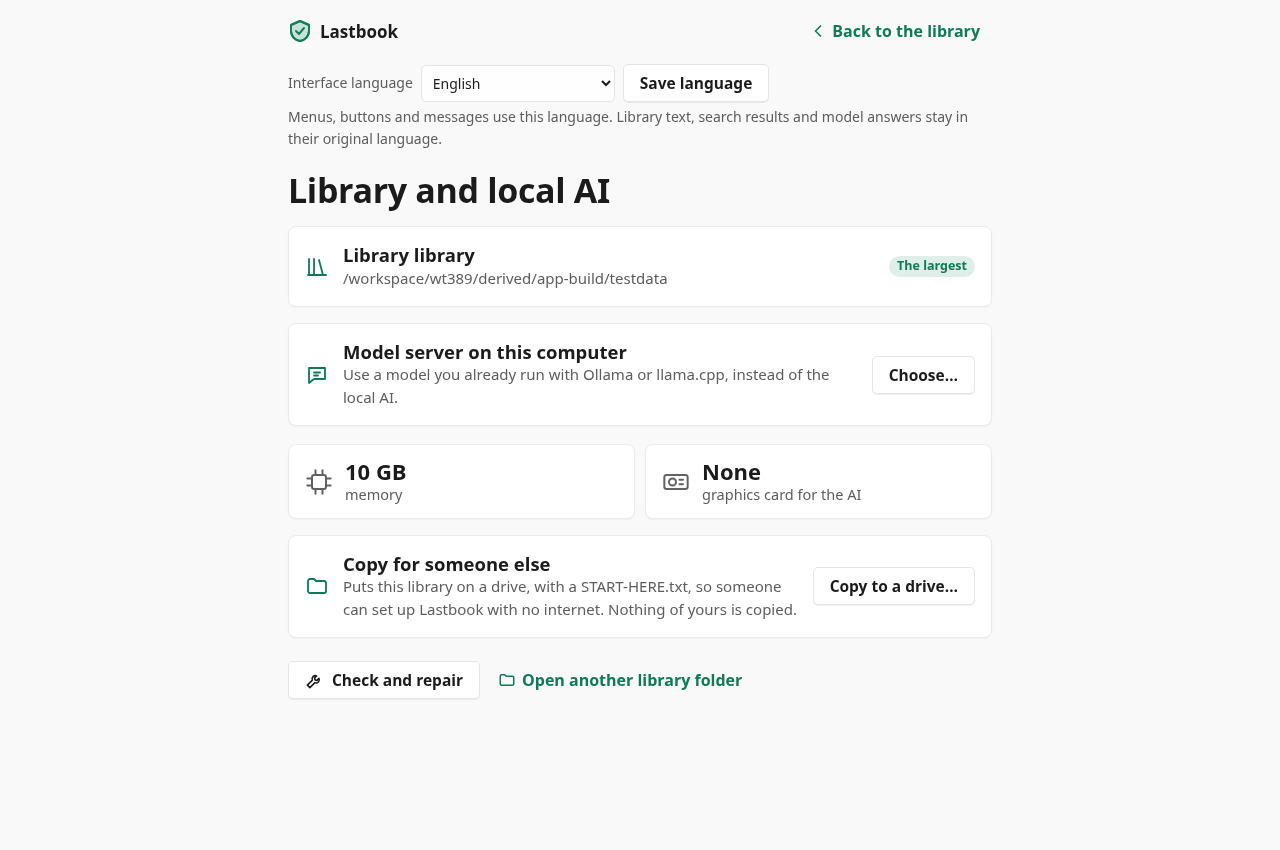
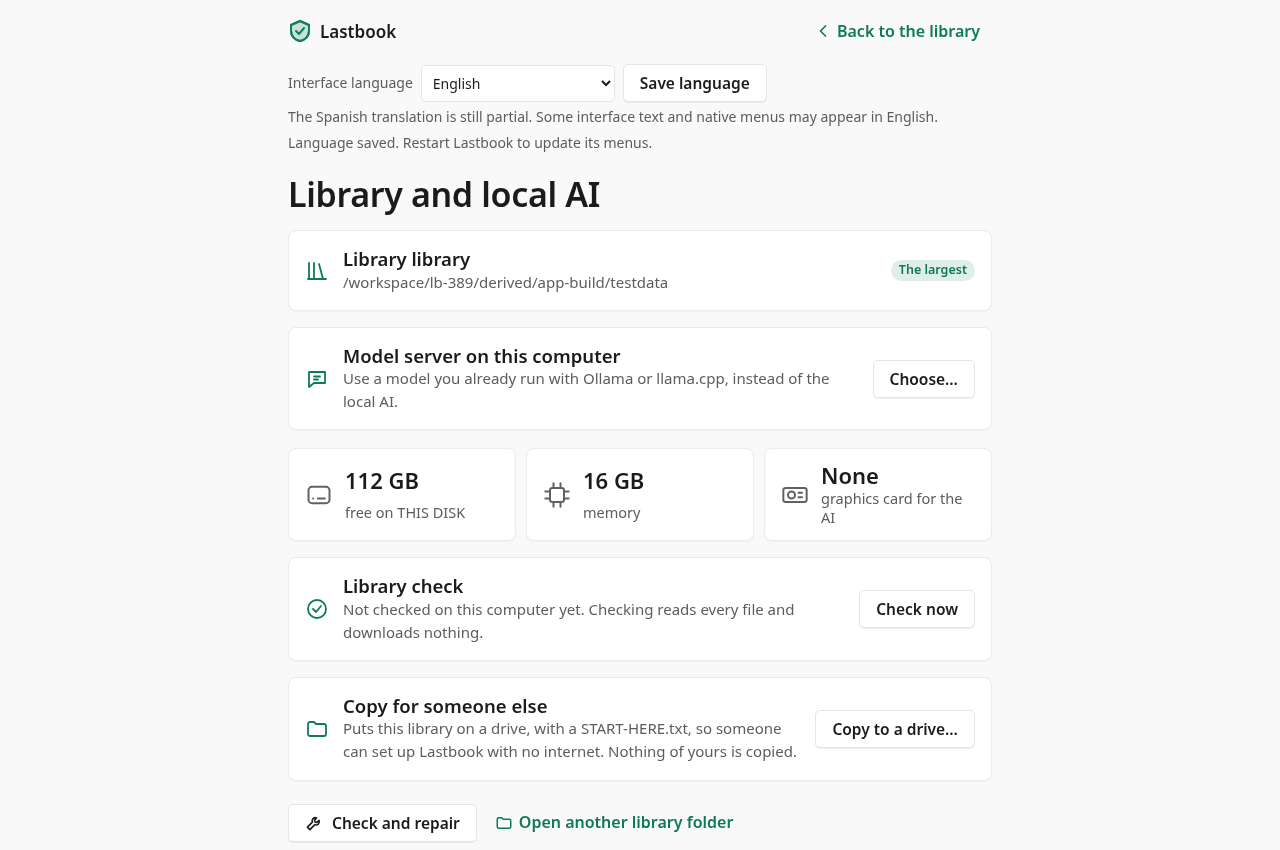
docs: regenerate localization review screenshots from the final code

diff --git a/docs/review-previews/i18n-2026-11/README.md b/docs/review-previews/i18n-2026-11/README.md
@@ -4,6 +4,6 @@ These review previews cover the Library and Settings screens requested in PR #38
 
 - `library-es-419.png`: Library in Español (Latinoamérica), including localized topic titles and descriptions.
 - `settings-es-419.png`: Settings in Español (Latinoamérica).
-- `settings-en.png`: Settings after switching back to English.
+- `settings-en.png`: Settings after switching back to English in the same page, without a reload.
 
-Captured at a 1280 × 850 CSS viewport with Chromium and the checked-in Playwright browser/bridge harness. The harness uses the real Lastbook HTTP handler and a synthetic fixture library; these are not screenshots from a native macOS or Windows installation.
+Regenerated on 2026-11-27 from the final code of the stack (after the default-deny scanner and keyed server labels). Captured at a 1280 × 850 CSS viewport with Chromium and the checked-in Playwright browser/bridge harness. The harness uses the real Lastbook HTTP handler and a synthetic fixture library; these are not screenshots from a native macOS or Windows installation.
